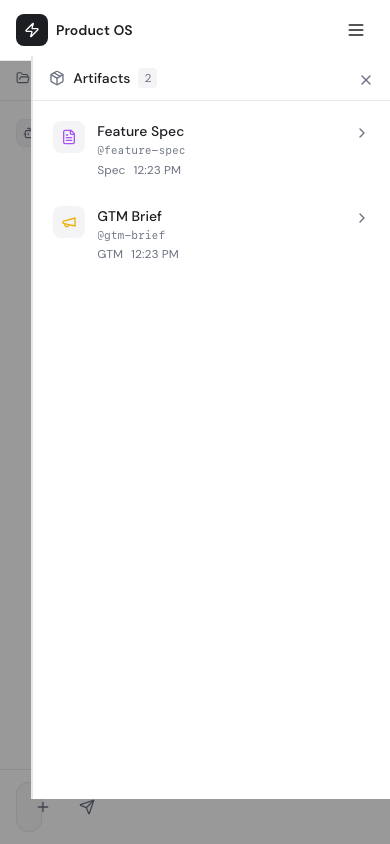
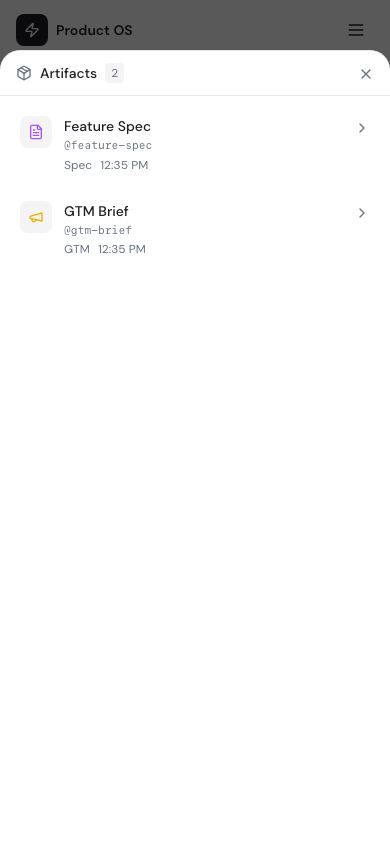
Implement mobile artifacts sheet and restore desktop panel

Changed region(s): [[0.0, 0.0, 1.0, 1.0], [0.1538, 0.2464, 0.4615, 0.3081], [0.9231, 0.2464, 0.9538, 0.2773]]

diff --git a/packages/web/src/pages/flow-session.tsx b/packages/web/src/pages/flow-session.tsx
@@ -1,7 +1,6 @@
 import { useState, useEffect, useCallback } from "react";
 import { FlowChatThread } from "@/components/flow-chat-thread";
 import { FlowArtifactPanel } from "@/components/flow-artifact-panel";
-import { cn } from "@/lib/utils";
 import type { FlowArtifact, AgentType, AgentState } from "@product-os/shared";
 import { getFlowArtifacts, connectRepo, updateProject } from "@/lib/api";
 import { Package, X } from "lucide-react";
@@ -43,6 +42,18 @@ export function FlowSessionPage({ sessionId, artifacts: sseArtifacts, repoUrl: i
     mediaQuery.addEventListener("change", handleDesktopChange);
     return () => mediaQuery.removeEventListener("change", handleDesktopChange);
   }, []);
+
+  useEffect(() => {
+    if (typeof window === "undefined") return;
+    const isMobileViewport = !window.matchMedia("(min-width: 768px)").matches;
+    if (!isMobileViewport || !showArtifacts) return;
+
+    const previousOverflow = document.body.style.overflow;
+    document.body.style.overflow = "hidden";
+    return () => {
+      document.body.style.overflow = previousOverflow;
+    };
+  }, [showArtifacts]);
 
   const handleConnectRepo = useCallback(async (url: string) => {
     try {
@@ -112,25 +123,29 @@ export function FlowSessionPage({ sessionId, artifacts: sseArtifacts, repoUrl: i
       {showArtifacts && (
         <>
           <div
-            className="fixed inset-x-0 bottom-0 -top-[45px] bg-black/40 z-40 md:hidden"
+            className="fixed inset-0 bg-black/65 z-[80] md:hidden"
             onClick={() => setShowArtifacts(false)}
             aria-hidden="true"
           />
-          <div
-            className={cn(
-              "fixed -top-[45px] right-0 bottom-0 z-50 w-[min(92vw,24rem)] border-l bg-card flex flex-col",
-              "md:static md:top-auto md:right-auto md:bottom-auto md:z-auto md:w-80 lg:w-96",
-              "flex-shrink-0 relative"
-            )}
-          >
-          <button
-            onClick={() => setShowArtifacts(false)}
-            className="absolute top-3 right-3 z-10 p-1 rounded hover:bg-secondary transition-colors"
-            aria-label="Close artifacts panel"
-          >
-            <X className="w-4 h-4 text-muted-foreground" />
-          </button>
-          <FlowArtifactPanel artifacts={artifacts} className="w-full" />
+
+          {/* Mobile sheet */}
+          <div className="fixed inset-x-0 bottom-0 top-[50px] z-[90] flex flex-col md:hidden">
+            <button
+              onClick={() => setShowArtifacts(false)}
+              className="absolute top-3 right-3 z-10 p-1 rounded hover:bg-secondary transition-colors"
+              aria-label="Close artifacts panel"
+            >
+              <X className="w-4 h-4 text-muted-foreground" />
+            </button>
+            <FlowArtifactPanel
+              artifacts={artifacts}
+              className="w-full h-full border-l-0 border-t rounded-t-[20px] overflow-hidden"
+            />
+          </div>
+
+          {/* Desktop panel (unchanged behavior) */}
+          <div className="hidden md:flex w-80 lg:w-96 flex-shrink-0 relative">
+            <FlowArtifactPanel artifacts={artifacts} className="w-full" />
           </div>
         </>
       )}

diff --git a/packages/web/src/pages/changelog.tsx b/packages/web/src/pages/changelog.tsx
@@ -94,6 +94,18 @@ export function ChangelogPage() {
               wrapping.
             </li>
             <li>
+              <strong>Flow mobile artifacts sheet redesign</strong> &mdash;
+              Reworked mobile artifacts into a full-width bottom sheet with
+              dark backdrop overlay, fixed 50px top inset, and iOS-style rounded
+              top corners for consistent layering.
+            </li>
+            <li>
+              <strong>Flow desktop artifact panel parity</strong> &mdash;
+              Restored desktop artifacts panel behavior to the original
+              right-column layout while keeping the new sheet behavior strictly
+              mobile-only.
+            </li>
+            <li>
               <strong>Flow mobile artifact drawer top-anchor correction</strong>{" "}
               &mdash; Adjusted mobile drawer and backdrop offsets so the artifact
               panel starts directly beneath the app header instead of leaving a

diff --git a/CHANGELOG.md b/CHANGELOG.md
@@ -22,6 +22,8 @@ All notable changes to Product OS are documented here.
 
 - **Flow mobile artifact panel access** — Restored artifact access in mobile flow sessions by adding a dedicated “Open artifacts panel” trigger and a mobile drawer presentation with close controls.
 - **Flow mobile artifact drawer alignment + trigger layout** — Removed extra vertical offset so the mobile artifact drawer aligns directly under the session header, and fixed the floating artifact trigger to render as a single-row button instead of wrapping/breaking.
+- **Flow mobile artifacts sheet redesign** — Reworked mobile artifacts into a full-width bottom sheet with dark backdrop overlay, fixed 50px top inset, and iOS-style rounded top corners for consistent layering.
+- **Flow desktop artifact panel parity** — Restored desktop artifacts panel behavior to the original right-column layout while keeping the new sheet behavior strictly mobile-only.
 - **Flow mobile artifact drawer top-anchor correction** — Adjusted mobile drawer/backdrop offsets so the artifact panel now starts directly beneath the app header instead of leaving a visible gap below the flow title bar.
 - **Flow mobile input focus zoom fix (iOS Safari)** — Increased the mobile composer textarea font size to prevent Safari auto-zoom on focus, preserving the expected title bar and empty-state framing while typing.
 
